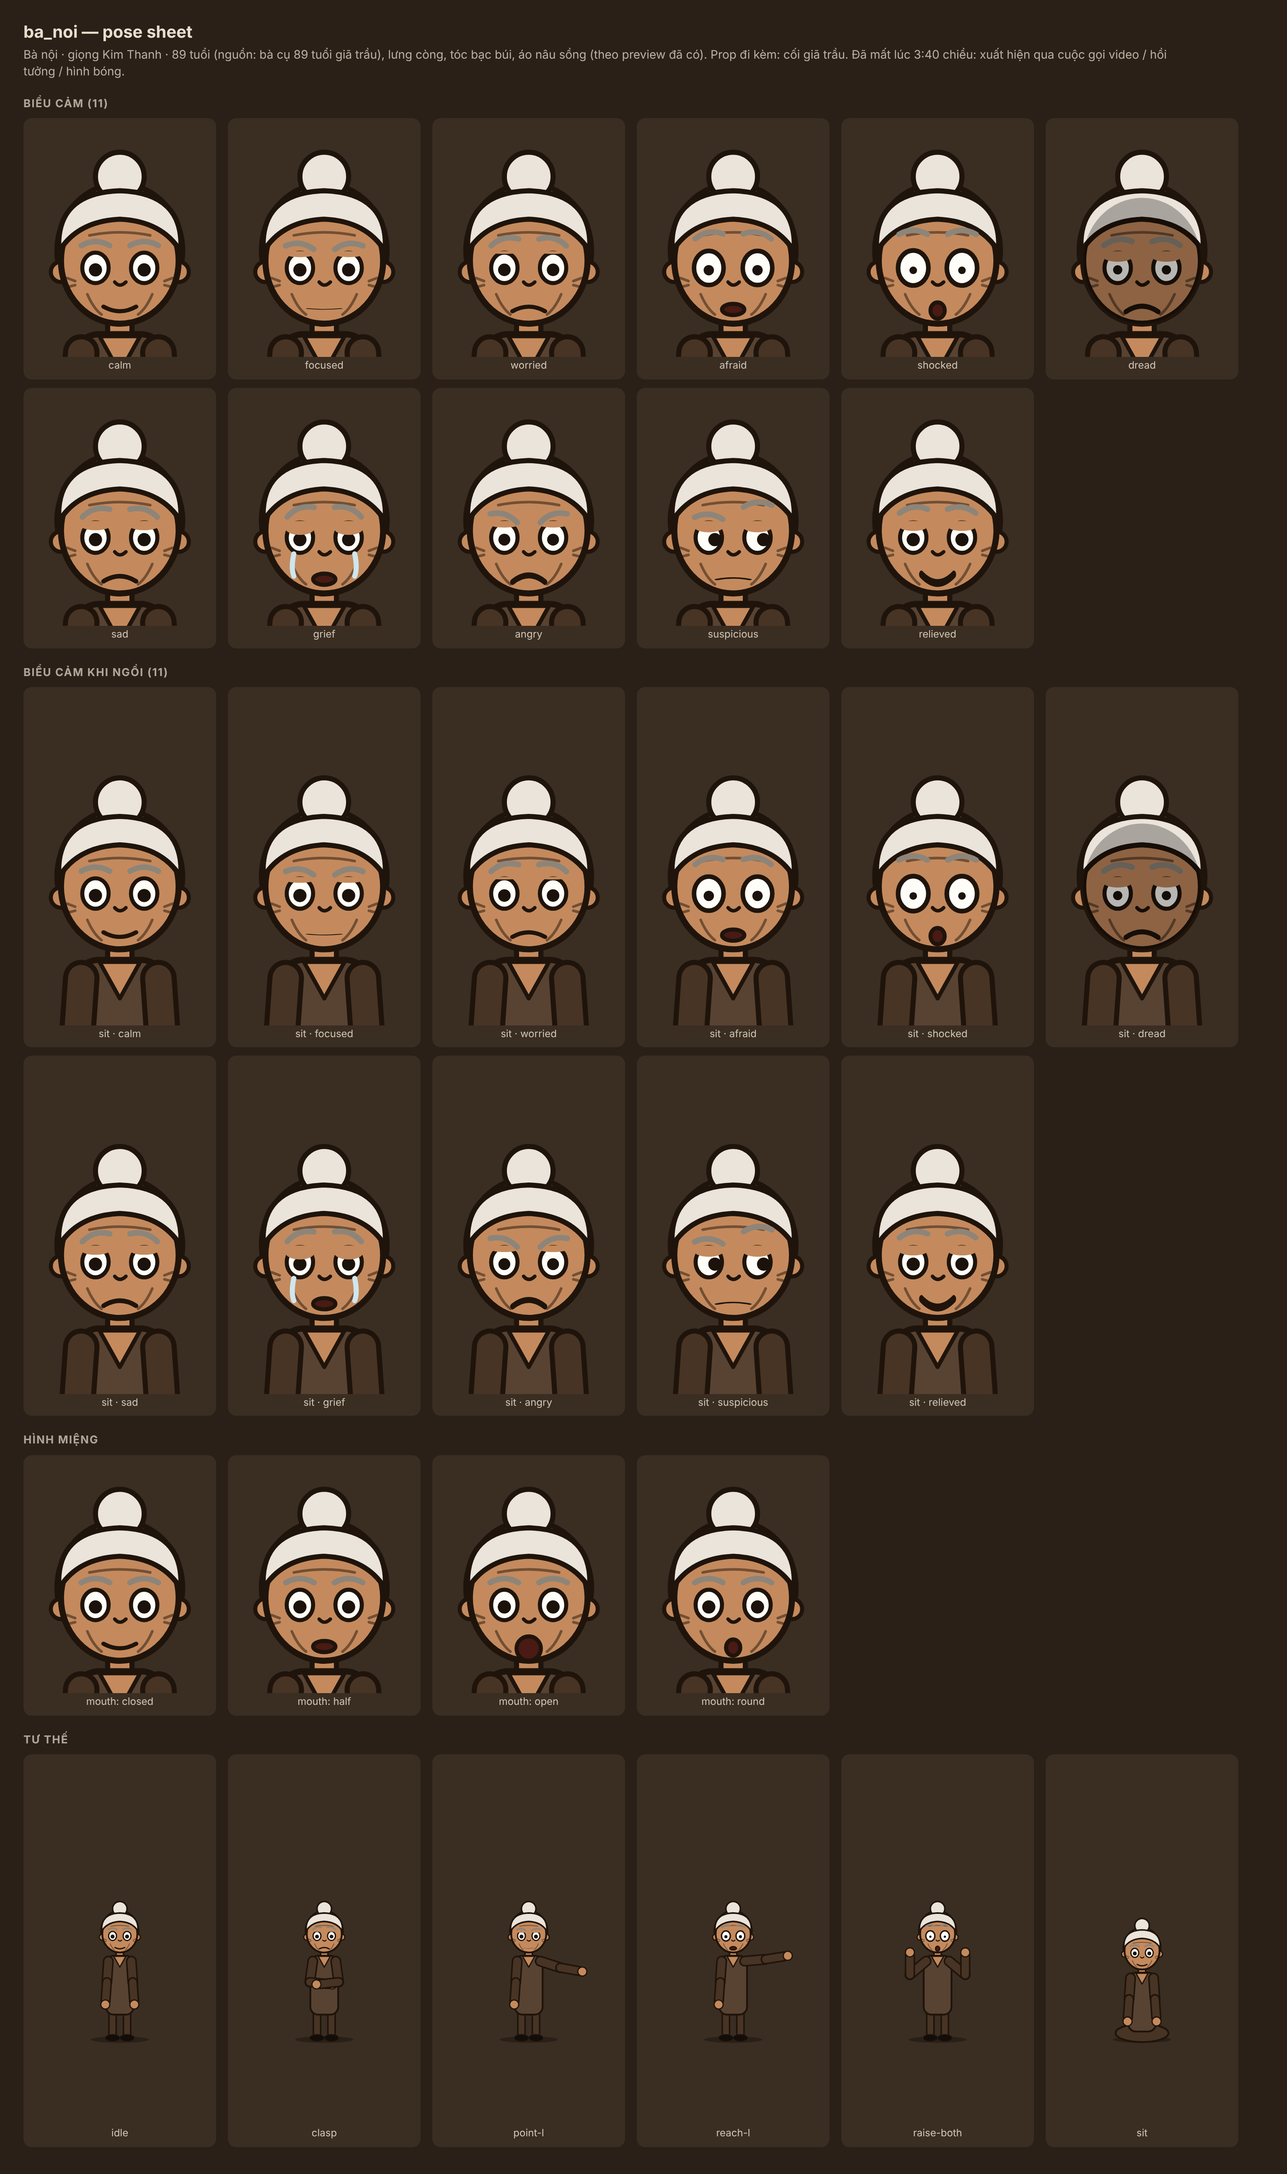
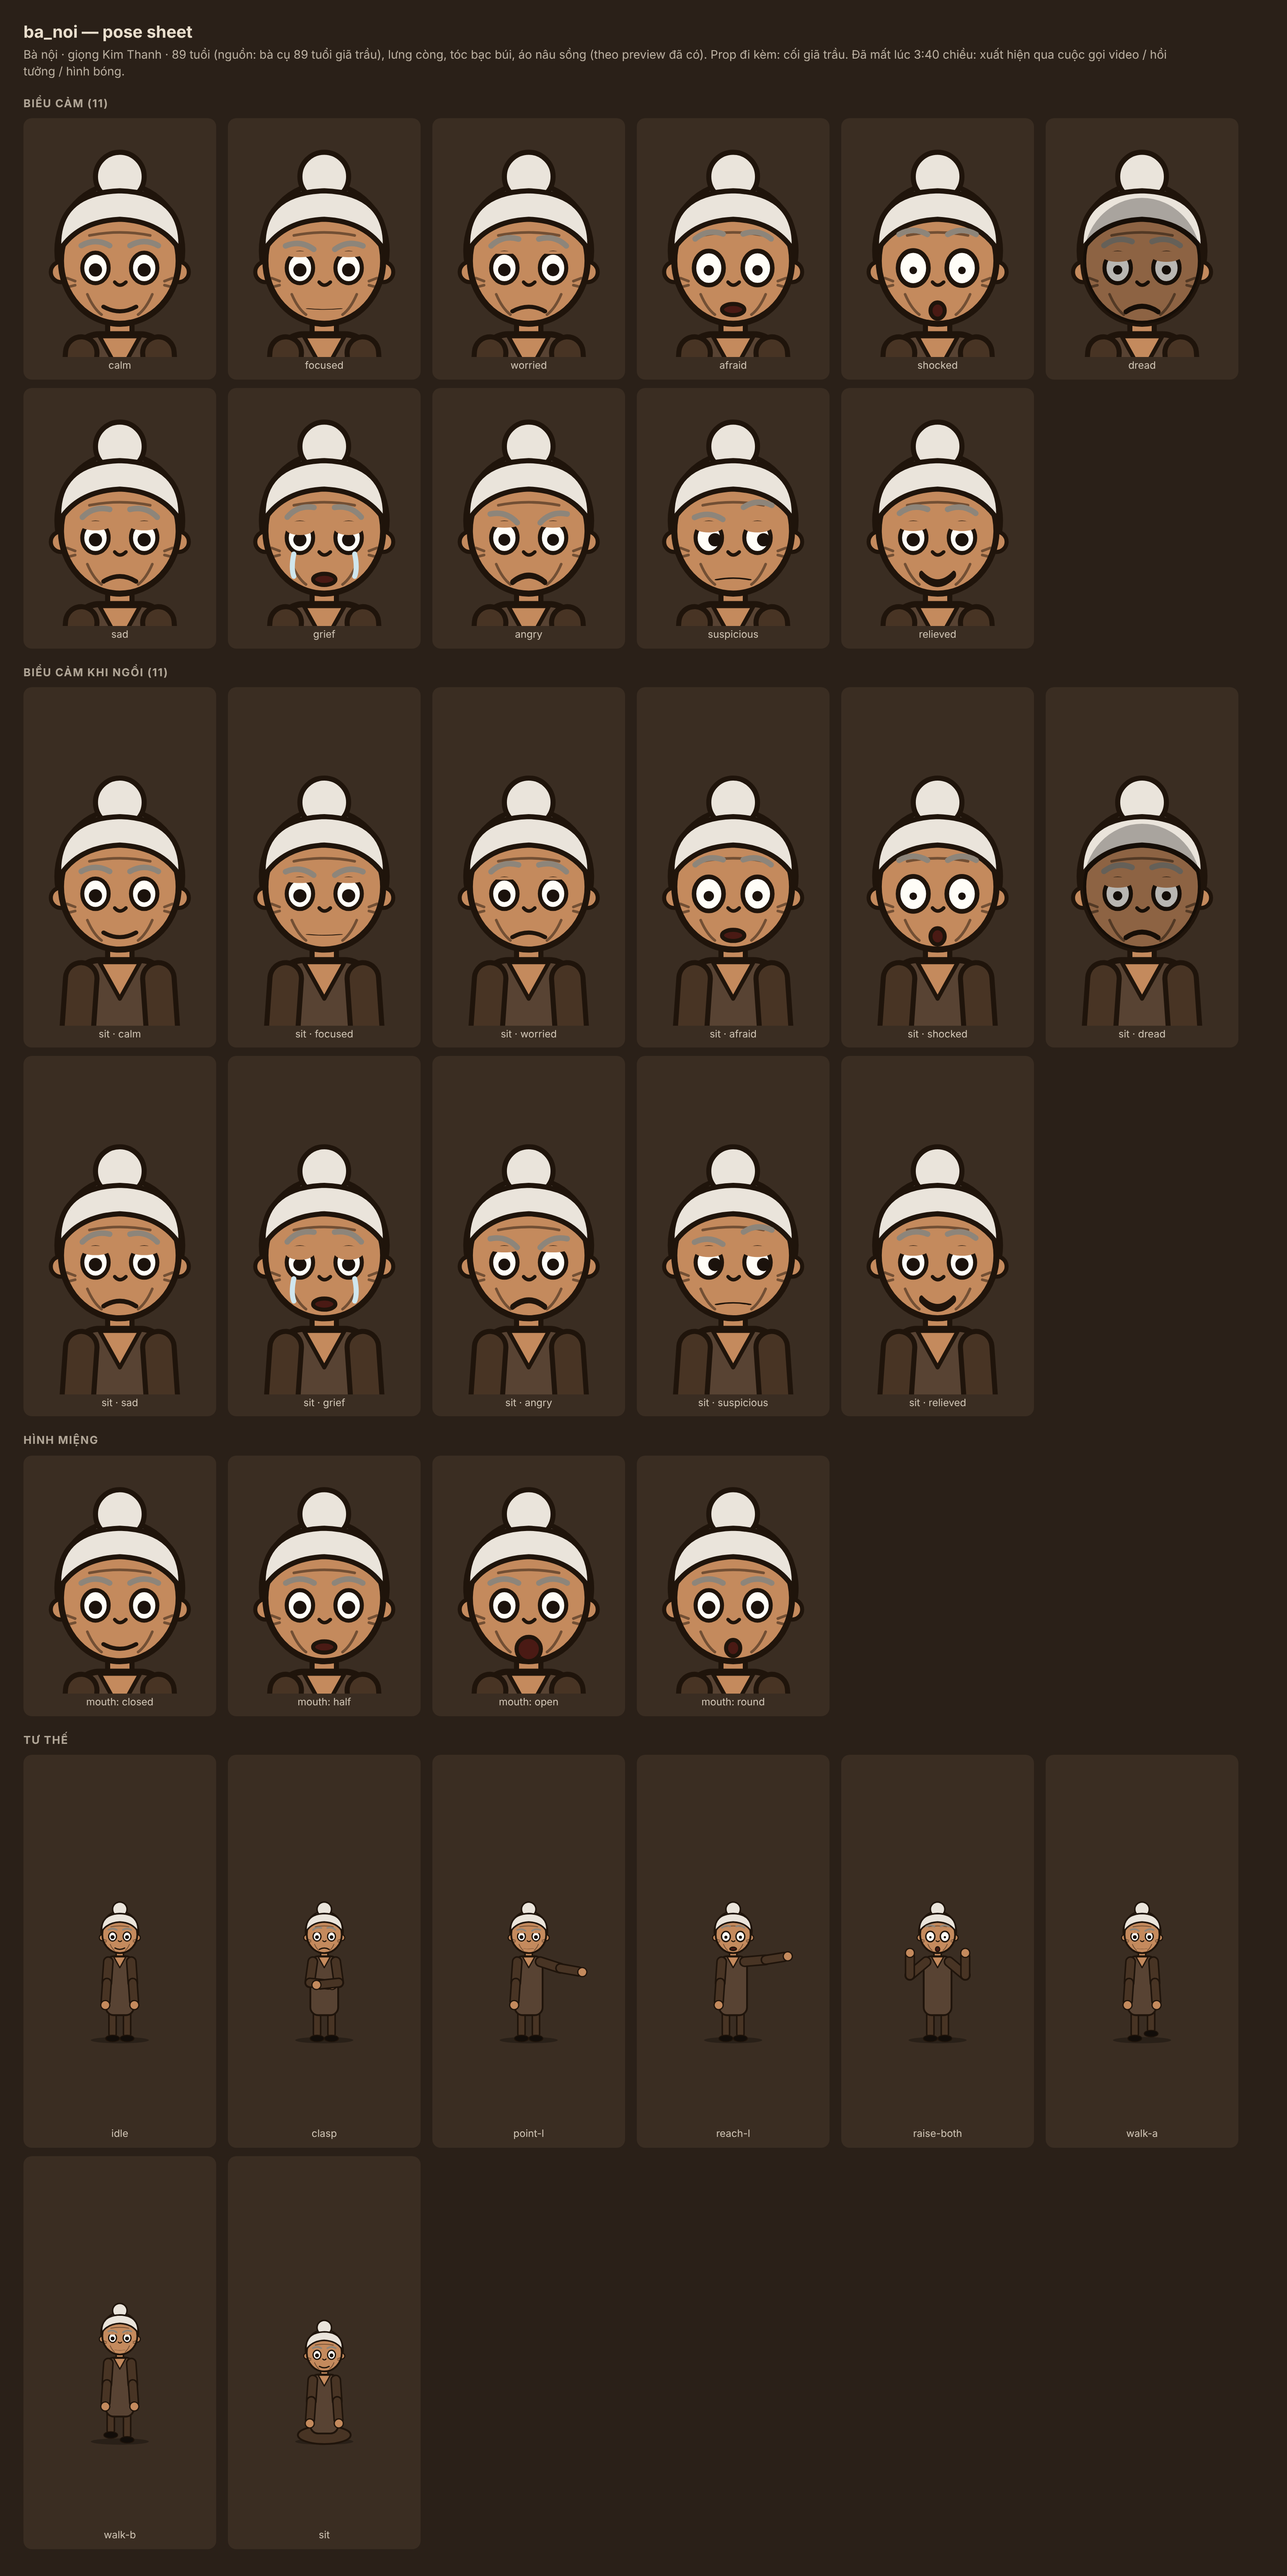
Rig đi bộ (walk-a/walk-b), đạo cụ chuyển tay (hand_over), bước chân trong move
- build_rig: pose walk-a/walk-b (chân nhấc 16 px luân phiên, hông giữ nguyên); rig + pose sheet đã build lại cho S01. CHƯA DUYỆT: nhấc chân còn nhỏ ở cỡ sheet, cần người dùng xem và quyết tăng biên độ/nghiêng thân.
- build_video: beat move sinh bước chân walk-a/walk-b ~0.3 s/nhịp, kết thúc về idle.
- build_video: beat hand_over {prop, from, to, dur} + physical=true: đạo cụ nhấc lên tay người cho rồi chuyển sang tay người nhận (tay nghỉ, chưa có tay với tới). Thiếu physical → từ chối (R6.1).
- check_shots: hand_over tính là hành vi tường minh của cả from/to (E7); hand_over thiếu physical bị báo.
- test_roadmap_v3: thêm kiểm hand_over (tween 2 đoạn, từ chối khi không physical). 25+ kiểm: TẤT CẢ QUA.

Chưa làm: quay người / 3/4 (task 15); chưa gắn hand_over vào shot thật (SH008 có mam_tre + SFX 2.4 s, cần duyệt); chưa xem ảnh shot có hand_over.

Handoff: đã xem snapshot /tmp/wk_5i33/snap/frame-00-at-0.75s.png (đi bộ: chân nhấc nhẹ, chưa đủ đọc).

Claude-Session: https://claude.ai/code/session_01GcMrUmq793eUS1ikpo24kJ

diff --git a/.agents/skills/video-pipeline/scripts/build_video.py b/.agents/skills/video-pipeline/scripts/build_video.py
@@ -160,6 +160,43 @@ class Stage:
         self.parts.append((st["y"], 1, place_svg(svg, st["x"] - 260 * s, st["y"] - 580 * s, 520 * s, 600 * s)))
         self.chars[cid] = {"x": st["x"], "y": st["y"], "s": s, "mouth": bool(spec.get("mouth")), "id": f"{self.sid}-{cid}"}
 
+    def hand_pos(self, cid: str, side: str) -> tuple[float, float]:
+        """Vị trí tay nghỉ (l|r) của nhân vật trong toạ độ cảnh. Đọc pivot vai từ rig.json; tay nghỉ ở y=462 trong viewBox rig."""
+        c = self.chars[cid]
+        piv = jload(self.ctx.proj / "assets" / "rig" / f"{cid}.rig.json")["pivots"][f"arm-{side}"]
+        vx = float(piv.split("px")[0])
+        s = c["s"]
+        return c["x"] - 260 * s + vx * s, c["y"] - 580 * s + 462 * s
+
+    def hand_over_js(self, b: dict, t: float) -> list[str]:
+        """Đạo cụ chuyển tay (R11.5): nhấc từ vị trí hiện tại lên tay người cho, rồi chuyển sang tay người nhận. Cần physical=true (SFX, R6.1)."""
+        ho = b["hand_over"]
+        key, g, r = ho.get("prop"), ho.get("from"), ho.get("to")
+        if not b.get("physical"):
+            raise ValueError(f"{self.sid}: hand_over phải có physical=true (R6.1: cần SFX)")
+        if key not in self.props:
+            raise ValueError(f"{self.sid}: hand_over prop '{key}' không có trong shot")
+        if g not in self.chars or r not in self.chars or g == r:
+            raise ValueError(f"{self.sid}: hand_over cần from/to là hai nhân vật khác nhau trong shot")
+        side_g = "l" if self.chars[r]["x"] > self.chars[g]["x"] else "r"  # tay phía người nhận
+        side_r = "r" if side_g == "l" else "l"
+        p, pid = self.props[key], self.prop_ids[key]
+        half_w, half_h = p["w"] * p["k"] / 2, p["h"] * p["k"] / 2
+
+        def top_left(xy):  # gốc của đạo cụ là góc trên-trái; đặt tâm đạo cụ vào tay
+            return xy[0] - half_w, xy[1] - half_h
+
+        d = float(ho.get("dur", 0.9))
+        d1 = d * 0.4
+        gx, gy = top_left(self.hand_pos(g, side_g))
+        rx, ry = top_left(self.hand_pos(r, side_r))
+        p["x0"], p["y0"] = rx, ry
+        p["x"], p["y"] = rx + half_w, ry + half_h
+        return [
+            f'tl.to("#{pid}", {{attr: {{x: {gx:.1f}, y: {gy:.1f}}}, duration: {d1:.2f}, ease: "power1.inOut"}}, {t:.2f});',
+            f'tl.to("#{pid}", {{attr: {{x: {rx:.1f}, y: {ry:.1f}}}, duration: {d - d1:.2f}, ease: "power1.inOut"}}, {t + d1:.2f});',
+        ]
+
     def focus_point(self) -> tuple[float, float]:
         f, size = self.shot.get("focus"), self.shot["size"]
         if f in self.chars:
@@ -392,7 +429,14 @@ def build_shot_js(st: Stage, dur: float, abs0: float, ctx: Ctx) -> str:
             out.append(f'tl.to("#{c["id"]}", {{attr: {{x: {x_new:.1f}}}, duration: {d:.2f}, ease: "power1.inOut"}}, {t:.2f});')
             # bước nhẹ: bob 3 px, 2k nhịp đều (kết thúc đúng cao độ ban đầu)
             out.append(f'tl.to("#{c["id"]}", {{attr: {{y: "-=3"}}, duration: {d / (2 * k):.3f}, repeat: {2 * k - 1}, yoyo: true, ease: "sine.inOut"}}, {t:.2f});')
+            # bước chân: đổi walk-a/walk-b ~0.3 s/nhịp trong lúc đi, kết thúc về idle (R5.4, R11.3)
+            steps = max(2, int(d / 0.3))
+            for i in range(steps):
+                out.append(f'tl.set("#{c["id"]}", {{attr: {{"data-pose": "{"walk-a" if i % 2 == 0 else "walk-b"}"}}}}, {t + i * d / steps:.2f});')
+            out.append(f'tl.set("#{c["id"]}", {{attr: {{"data-pose": "idle"}}}}, {t + d:.2f});')
             c["x"] = tgt["x"]  # bản ghi tĩnh dùng cho các bước sau (tracks giữ quỹ đạo chính xác)
+        if b.get("hand_over"):
+            out.extend(st.hand_over_js(b, t))
         if b.get("look"):
             lk = b["look"]
             out.append(f'tl.set("#{st.chars[lk["char"]]["id"]}", {{attr: {{"data-gaze": {js(gaze_toward(tracks[lk["char"]].x_at(t), tracks[lk["target"]].x_at(t)))}}}}}, {t:.2f});')

diff --git a/.agents/skills/video-pipeline/scripts/build_rig.py b/.agents/skills/video-pipeline/scripts/build_rig.py
@@ -82,7 +82,19 @@ POSES = {
     "point-l": ((-72, -8), (4, 0)),
     "reach-l": ((-95, -4), (4, 0)),
     "raise-both": ((-50, -130), (50, 130)),
+    # đi bộ: tay giữ idle; hai chân ngược pha (xem LEG_POSES). Generator chuyển walk-a ↔ walk-b khi di chuyển.
+    "walk-a": ((-4, 0), (4, 0)),
+    "walk-b": ((-4, 0), (4, 0)),
 }
+
+# Đi bộ NHÌN CHÍNH DIỆN: chân nhấc lên (dịch lên 10 px, vào giữa 4 px), chân kia tựa đất.
+# Không xoay đối xứng (sẽ thành dang chân / khép chéo). [leg-l, leg-r]; leg-l = chân trái nhân vật (bên phải người xem).
+LEG_POSES = {
+    "walk-a": ("translate(6px,-16px)", "translate(0px,0px)"),
+    "walk-b": ("translate(0px,0px)", "translate(-6px,-16px)"),
+}
+HIP_Y = 470
+LEG_X = {"l": CX + 24, "r": CX - 24}  # tâm hông theo toạ độ viewBox
 
 GAZE = {"center": (0, 0), "left": (-5, 0), "right": (5, 0), "up": (0, -4), "down": (0, 4)}
 
@@ -215,9 +227,11 @@ class Rig:
         if self.shadow:
             ink, pants, shoe = self.c("shadow_ink"), self.c("shadow_body"), self.c("shadow_ink")
         out = ['<g class="legs">']
-        for x in (CX - 36, CX + 12):
-            out.append(f'<rect x="{x}" y="470" width="24" height="98" rx="10" fill="{pants}" stroke="{ink}" stroke-width="5"/>')
+        for side, x in (("r", CX - 36), ("l", CX + 12)):  # r = chân phải nhân vật (bên trái người xem)
+            out.append(f'<g class="leg leg-{side}">')
+            out.append(f'<rect x="{x}" y="{HIP_Y}" width="24" height="98" rx="10" fill="{pants}" stroke="{ink}" stroke-width="5"/>')
             out.append(f'<ellipse cx="{x + 12}" cy="572" rx="23" ry="11" fill="{shoe}" stroke="{ink}" stroke-width="3"/>')
+            out.append("</g>")
         out.append("</g>")
         return "".join(out)
 
@@ -390,6 +404,9 @@ class Rig:
             f"{r}[data-khan='off'] .acc-khan{{display:none}}",
             f"{r} .lap{{display:none}}",
             f"{r}[data-stance='sit'] .lap{{display:inline}}",
+            f"{r} .leg{{transform-box:view-box}}",
+            f"{r} .leg-l{{transform-origin:{LEG_X['l']}px {HIP_Y}px}}",
+            f"{r} .leg-r{{transform-origin:{LEG_X['r']}px {HIP_Y}px}}",
             f"{r}[data-stance='sit'] .legs{{display:none}}",
             f"{r}[data-stance='sit'] .body{{transform:translateY(56px)}}",
         ]
@@ -413,6 +430,10 @@ class Rig:
             lines.append(f"{sel} .fore-l{{transform:rotate({fl}deg)}}")
             lines.append(f"{sel} .arm-r{{transform:rotate({ur}deg)}}")
             lines.append(f"{sel} .fore-r{{transform:rotate({fr}deg)}}")
+        for name, (tl_, tr_) in LEG_POSES.items():
+            sel = f"{r}[data-pose='{name}']"
+            lines.append(f"{sel} .leg-l{{transform:{tl_}}}")
+            lines.append(f"{sel} .leg-r{{transform:{tr_}}}")
         return "\n".join(lines)
 
     # ---- tổng hợp --------------------------------------------------------
@@ -526,6 +547,7 @@ def sheet_html(rig: Rig, emotions: list[str]) -> str:
     )
     poses = [("idle", {}), ("clasp", {"emotion": "worried"}), ("point-l", {"emotion": "focused"}),
              ("reach-l", {"emotion": "afraid"}), ("raise-both", {"emotion": "shocked"}),
+             ("walk-a", {"emotion": "focused"}), ("walk-b", {"emotion": "focused"}),
              ("sit", {"stance": "sit", "emotion": "calm"})]
     cells_p = "".join(
         f'<figure class="tall">{rig.svg({"pose": "idle" if n == "sit" else n, **st})}<figcaption>{n}</figcaption></figure>'

diff --git a/.agents/skills/video-pipeline/scripts/tests/test_roadmap_v3.py b/.agents/skills/video-pipeline/scripts/tests/test_roadmap_v3.py
@@ -140,6 +140,38 @@ def test_build_video_tweens() -> None:
            html.count('"+=2.5"') == 1, str(html.count('"+=2.5"')))
 
 
+def test_hand_over() -> None:
+    print("build_video (hand_over: đạo cụ chuyển tay)")
+    with tempfile.TemporaryDirectory() as td:
+        d = Path(td) / "p"
+        d.mkdir()
+
+        def add_ho(s, physical=True):
+            for sh in s["shots"]:
+                if sh["id"] == "SH008":
+                    sh["beats"].append({"line_id": sh["beats"][0]["line_id"], "t": 2.4, "do": "đưa mâm", "physical": physical,
+                                        "hand_over": {"prop": "mam_tre", "from": "me", "to": "host", "dur": 0.9}})
+
+        write_min_project(d, add_ho)
+        out_dir = Path(td) / "video"
+        code, out = run([str(SCRIPTS / "build_video.py"), "--project", str(d), "--shots", "SH008", "--out", str(out_dir)])
+        ok("hand_over dựng được", code == 0, out[-300:])
+        html = (out_dir / "compositions" / "SH008.html").read_text(encoding="utf-8")
+        ok("đạo cụ được tween tới tay người nhận (hai đoạn: nhấc rồi chuyển)",
+           len(__import__("re").findall(r'tl\.to\("#SH008-p\d+", \{attr: \{x: [-\d.]+, y: [-\d.]+\}, duration: [\d.]+, ease: "power1.inOut"\}, 2\.[47]\d\)', html)) == 2)
+
+    with tempfile.TemporaryDirectory() as td:
+        d = Path(td) / "p"
+        d.mkdir()
+
+        def add_ho_nophys(s):
+            add_ho(s, physical=False)
+
+        write_min_project(d, add_ho_nophys)
+        code, out = run([str(SCRIPTS / "build_video.py"), "--project", str(d), "--shots", "SH008", "--out", str(Path(td) / "v")])
+        ok("hand_over không physical bị từ chối (R6.1)", code != 0 and "physical=true" in out, out[-200:])
+
+
 def test_check_audio() -> None:
     print("check_audio (wav giả)")
     import numpy as np
@@ -188,6 +220,7 @@ def main() -> int:
     test_timing_lib()
     test_check_shots()
     test_build_video_tweens()
+    test_hand_over()
     test_check_audio()
     print(f"\n{'TẤT CẢ QUA' if not FAILS else f'THẤT BẠI {len(FAILS)}: ' + '; '.join(FAILS)}")
     return 0 if not FAILS else 1

diff --git a/.agents/skills/video-pipeline/scripts/check_shots.py b/.agents/skills/video-pipeline/scripts/check_shots.py
@@ -247,6 +247,8 @@ def main() -> int:
                 else:
                     errors.append(f"{sid}: beat '{str(b.get('do', ''))[:30]}' rơi ở {at:.2f}s, ngoài cửa sổ thoại của {b['line_id']} "
                                   f"({bl['start']:.2f}–{bl['start'] + bl['duration']:.2f}s, cho phép sớm {BEAT_LEAD}s)")
+            if isinstance(b.get("hand_over"), dict) and not b.get("physical"):
+                errors.append(f"{sid}: beat hand_over phải có physical=true (R6.1/R11.5)")
             if b.get("physical"):
                 if not any(abs(float(s.get("t", 0.0)) - t) <= SFX_TOLERANCE for s in sfx):
                     errors.append(f"{sid}: beat vật lý '{b.get('do', '')[:40]}' (t={t}) chưa có SFX trong ±{SFX_TOLERANCE}s")
@@ -258,6 +260,8 @@ def main() -> int:
                 for k in ("move", "look", "react"):
                     if isinstance(b.get(k), dict):
                         explicit.add(b[k].get("char"))
+                if isinstance(b.get("hand_over"), dict):  # chuyển tay: cả người cho lẫn người nhận đều có hành vi
+                    explicit |= {b["hand_over"].get("from"), b["hand_over"].get("to")}
             for c in shot_chars:
                 if c.get("id") not in explicit:
                     errors.append(f"{sid}: shot nhiều người nhưng {c.get('id')} không có hành vi tường minh (beat set/move/look/react) — "
